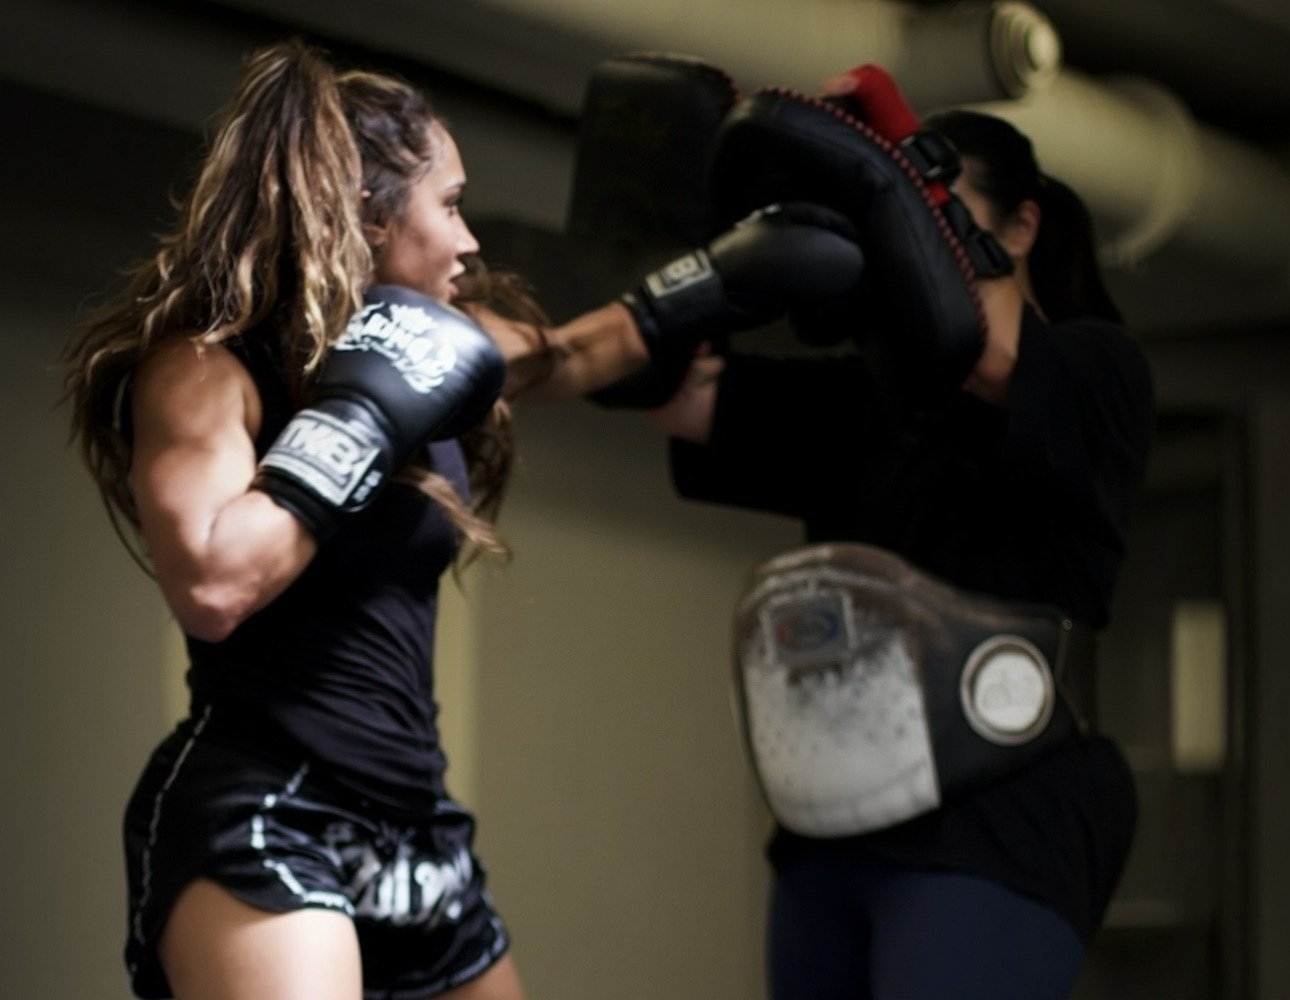
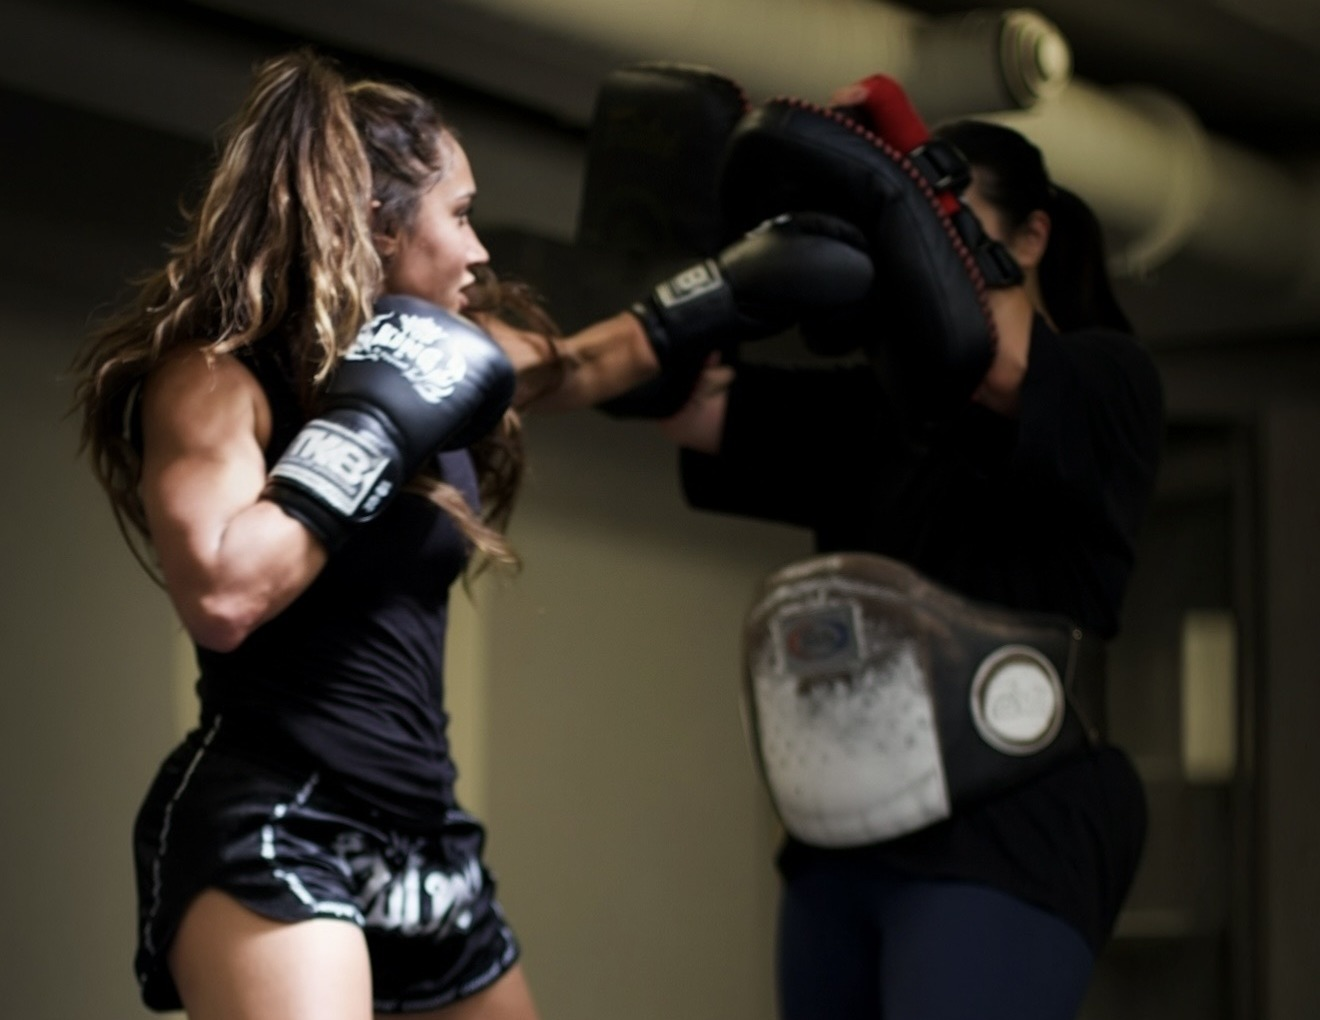
About photo: recrop to show entire punching arm, tighten mobile height (5:6, capped ~62-65svh), add subtle cinematic color grade

diff --git a/about.html b/about.html
@@ -26,13 +26,16 @@
   .about-photo {
     position: relative;
     overflow: hidden;
-    aspect-ratio: 4 / 5;
+    aspect-ratio: 5 / 6;
+    max-height: 65vh;
+    max-height: 65svh;
     margin: 40px -20px 0;
     clip-path: polygon(0 3%, 100% 0, 100% 100%, 0 100%);
   }
   .about-photo img {
-    width: 100%; height: 100%; object-fit: cover; object-position: 30% 22%;
+    width: 100%; height: 100%; object-fit: cover; object-position: 42% 50%;
     display: block;
+    filter: saturate(0.78) contrast(1.08) brightness(0.93);
   }
 
   /* ---- Background (black section) ---- */
@@ -70,7 +73,7 @@
     .about-hero-text-rest { grid-column: 1; grid-row: 2; }
     .about-photo {
       grid-column: 2; grid-row: 1 / 3;
-      margin: 0; height: 100%; aspect-ratio: auto;
+      margin: 0; height: 100%; aspect-ratio: auto; max-height: none;
       clip-path: polygon(6% 0, 100% 0, 100% 100%, 0 100%);
     }
     .about-row { display: grid; grid-template-columns: 300px 1fr; gap: 40px; align-items: start; }
@@ -80,7 +83,7 @@
   @media (max-width: 768px) {
     .about-hero { padding: 70px 20px 90px; }
     .about-hero-shape { height: 130px; clip-path: polygon(0% 100%, 100% 45%, 100% 100%); }
-    .about-photo { aspect-ratio: 3 / 4; margin: 28px -20px 0; }
+    .about-photo { aspect-ratio: 5 / 6; max-height: 62vh; max-height: 62svh; margin: 28px -20px 0; }
     .about-credentials { padding: 60px 20px 170px; }
     .about-consult { padding: 60px 20px 90px; }
     .about-credentials-shape, .about-consult-shape { height: 130px; clip-path: polygon(0% 100%, 100% 45%, 100% 100%); }
